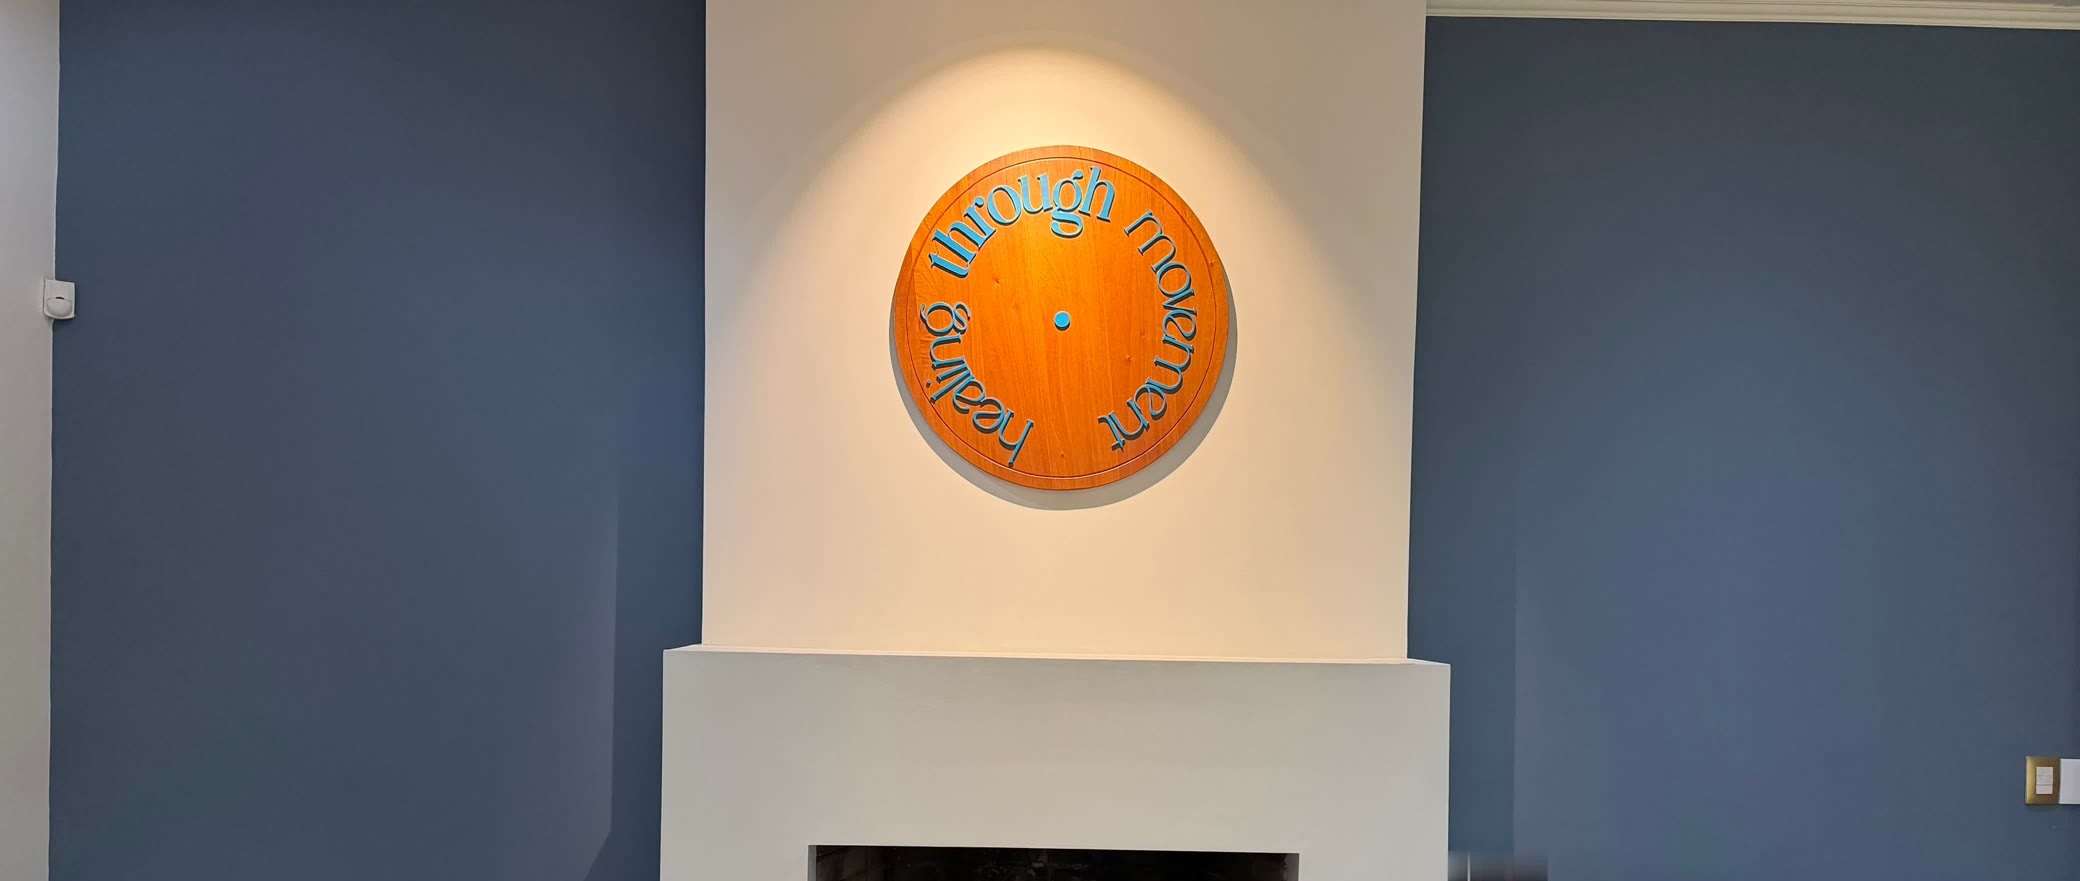
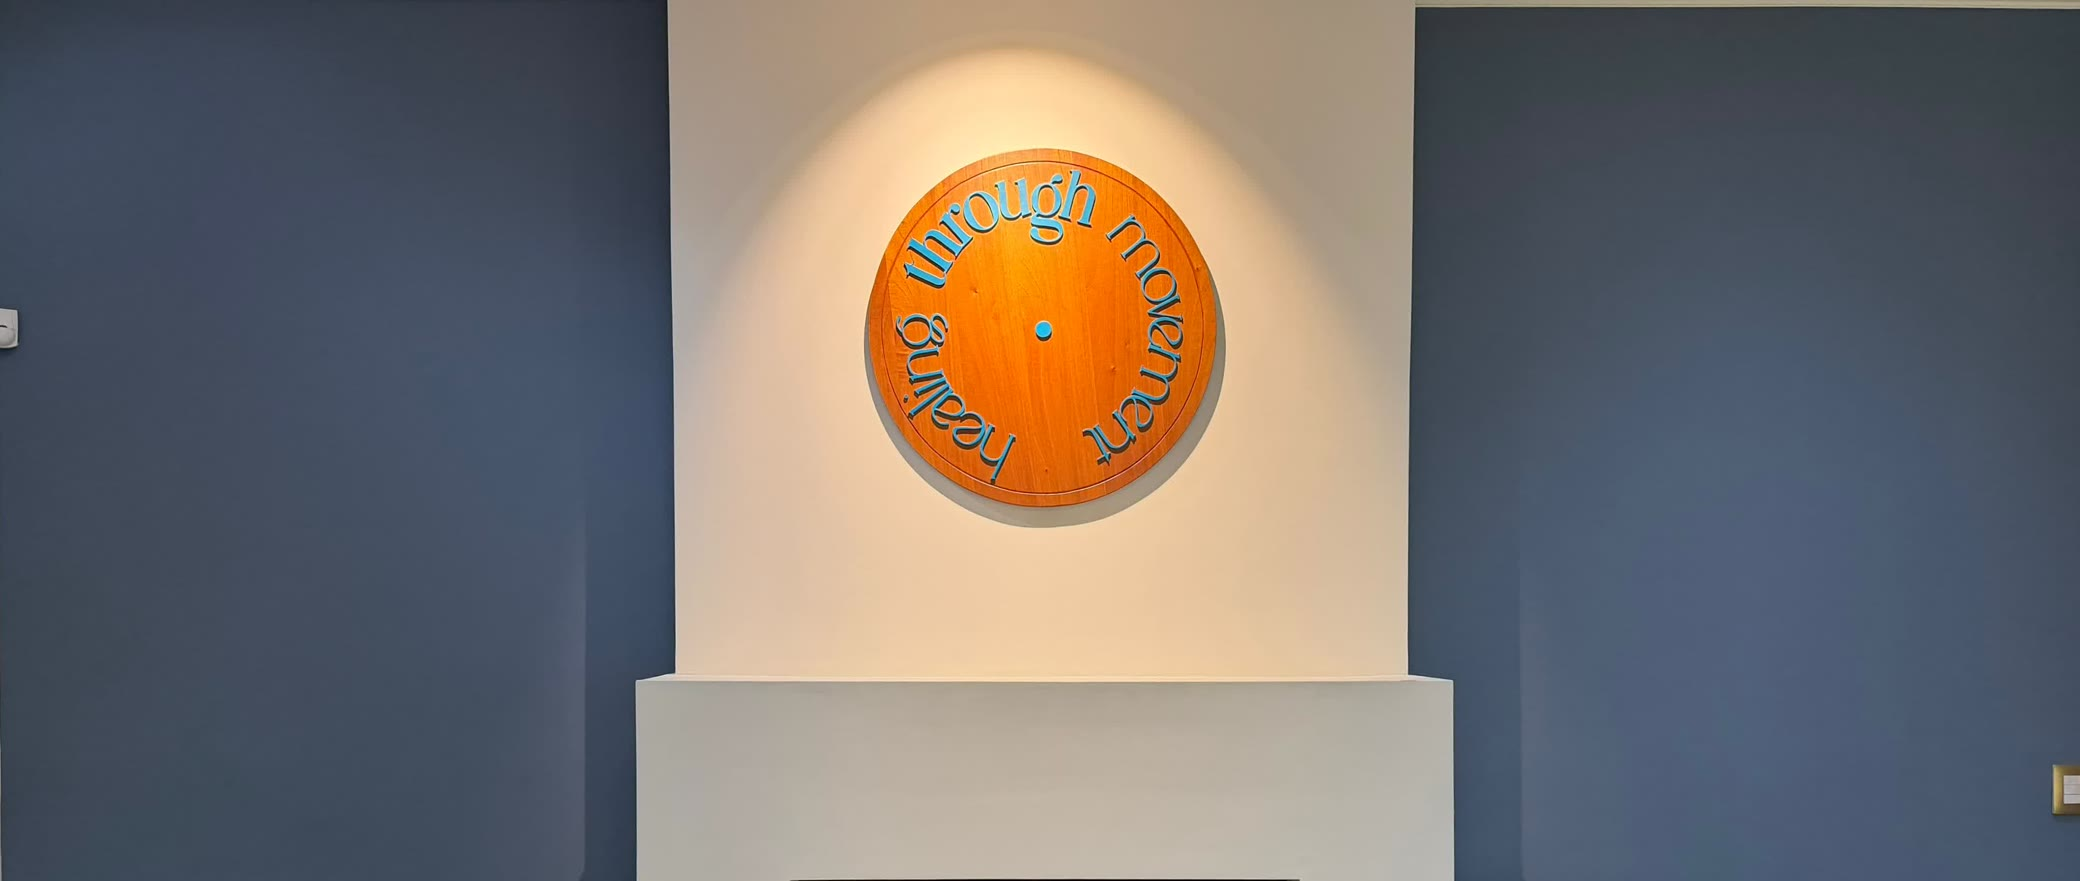
La chimenea queda derecha y centrada, y el video del método manda
Dos cosas que Ivan vio en la landing publicada.

La foto del sello se veía torcida. Se midió, no se estimó: buscando por
luminancia los dos bordes del pilar de la chimenea, su eje estaba a -1.06°
—y el pilar CONVERGE hacia abajo (359→352 px), así que era perspectiva de
cámara y no sólo giro—. Girada -1.05° el eje queda en 0.00°.

Y el borde izquierdo traía 133 px de la pared BLANCA contigua, que era lo
que rompía la simetría. El recorte nuevo arranca después de ella y se centra
en el eje del pilar: la chimenea queda al medio con desvío medido de 0 px.

El video del método se veía diminuto: 380 px en una pantalla de 1440, un
26 % del ancho, porque la sección vivía en `wrap` (760). Pasa a `wide`
—1240 a este ancho— y la rejilla de 1.1/0.9 a 1.15/1. Queda en 594×792:
56 % más grande.

⚠ Acá el límite lo pone el ALTO y no el ancho. El video es 3:4 vertical, o
sea que cada píxel de ancho cuesta 1.33 de alto: con 1.5/1 llegaba a 667×889,
más alto que la pantalla de una laptop. Recortarlo tampoco era salida — en el
cuadro la mujer ya ocupa de la cabeza a los pies. 1.15/1 entra en pantalla y
sigue mandando.

En el teléfono no cambia nada: ahí `wide` y `wrap` miden lo mismo, el video
sigue en 330×440 y el riel acostado.

diff --git a/thrive/index.html b/thrive/index.html
@@ -24,7 +24,7 @@
 <link rel="preconnect" href="https://fonts.gstatic.com" crossorigin>
 <link rel="preload" as="image" href="/assets/img/hero.jpg">
 <link rel="stylesheet" href="https://fonts.googleapis.com/css2?family=Outfit:wght@300..700&family=Bodoni+Moda:ital,opsz,wght@1,6..96,400..600&family=Fraunces:opsz,wght,SOFT,WONK@144,400,30,1&family=Hanken+Grotesk:wght@300..800&family=DM+Mono:wght@400;500&display=swap">
-<link rel="stylesheet" href="/assets/css/thrive.css?v=07e33f99">
+<link rel="stylesheet" href="/assets/css/thrive.css?v=bbeae1fd">
 </head>
 
 <body>
@@ -1442,7 +1442,12 @@ c12 -18 25 -25 47 -25 24 0 41 -11 78 -50 34 -37 54 -50 74 -50 22 0 45 -17
 
 <!-- ══════════ MÉTODO ══════════ -->
 <section data-ground="linen">
-  <div class="wrap">
+  <!-- `wide` y no `wrap`: la sección es la del VIDEO, y en un contenedor de
+       760 px el video quedaba en 380 — un 26 % de una pantalla de 1440, o sea
+       una miniatura al lado de mucho papel. Pedido de Ivan, 31 ago 2026:
+       que tenga protagonismo. En 1080 el video pasa a ~600.
+       El titular sigue centrado sobre esta caja, así que también se ensancha. -->
+  <div class="wide">
     <h2 class="h2 up">¿Cómo entrenamos?</h2>
 
     <div class="metodo-grid">
@@ -1506,7 +1511,15 @@ c12 -18 25 -25 47 -25 24 0 41 -11 78 -50 34 -37 54 -50 74 -50 22 0 45 -17
          sello al 35 % del alto, la repisa asomando abajo.
          Al reloj LED rojo del rincón se le pasó `delogo` y se recortaron las
          últimas filas: en escritorio la banda lo cortaba, pero en teléfono
-         entraba, y un LED rojo en un cuadro de azules jala el ojo. -->
+         entraba, y un LED rojo en un cuadro de azules jala el ojo.
+
+         31 ago, segunda pasada (Ivan: «se ve torcida»). Se midió el eje del
+         pilar de la chimenea buscando sus dos bordes por luminancia: estaba a
+         -1.06° y el pilar converge hacia abajo, o sea que era perspectiva y no
+         sólo giro. Girada -1.05° el eje queda en 0.00°.
+         Y el borde izquierdo traía 133 px de la pared BLANCA de al lado: el
+         recorte arranca después de ella y se centra en el eje del pilar, así
+         que la chimenea queda exactamente al medio (desvío medido: 0 px). -->
   <!-- Sin lema, por pedido de Denisse (29 ago 2026): quiere la foto del
        estudio limpia y pasar directo a «Tu experiencia THRIVE incluye».
 

diff --git a/_template-landing.html b/_template-landing.html
@@ -1442,7 +1442,12 @@ c12 -18 25 -25 47 -25 24 0 41 -11 78 -50 34 -37 54 -50 74 -50 22 0 45 -17
 
 <!-- ══════════ MÉTODO ══════════ -->
 <section data-ground="linen">
-  <div class="wrap">
+  <!-- `wide` y no `wrap`: la sección es la del VIDEO, y en un contenedor de
+       760 px el video quedaba en 380 — un 26 % de una pantalla de 1440, o sea
+       una miniatura al lado de mucho papel. Pedido de Ivan, 31 ago 2026:
+       que tenga protagonismo. En 1080 el video pasa a ~600.
+       El titular sigue centrado sobre esta caja, así que también se ensancha. -->
+  <div class="wide">
     <h2 class="h2 up">¿Cómo entrenamos?</h2>
 
     <div class="metodo-grid">
@@ -1506,7 +1511,15 @@ c12 -18 25 -25 47 -25 24 0 41 -11 78 -50 34 -37 54 -50 74 -50 22 0 45 -17
          sello al 35 % del alto, la repisa asomando abajo.
          Al reloj LED rojo del rincón se le pasó `delogo` y se recortaron las
          últimas filas: en escritorio la banda lo cortaba, pero en teléfono
-         entraba, y un LED rojo en un cuadro de azules jala el ojo. -->
+         entraba, y un LED rojo en un cuadro de azules jala el ojo.
+
+         31 ago, segunda pasada (Ivan: «se ve torcida»). Se midió el eje del
+         pilar de la chimenea buscando sus dos bordes por luminancia: estaba a
+         -1.06° y el pilar converge hacia abajo, o sea que era perspectiva y no
+         sólo giro. Girada -1.05° el eje queda en 0.00°.
+         Y el borde izquierdo traía 133 px de la pared BLANCA de al lado: el
+         recorte arranca después de ella y se centra en el eje del pilar, así
+         que la chimenea queda exactamente al medio (desvío medido: 0 px). -->
   <!-- Sin lema, por pedido de Denisse (29 ago 2026): quiere la foto del
        estudio limpia y pasar directo a «Tu experiencia THRIVE incluye».
 

diff --git a/assets/css/thrive.css b/assets/css/thrive.css
@@ -1660,7 +1660,17 @@ textarea.field{min-height:130px;}
      que a este cuerpo son unos 37 caracteres por renglón: angosto pero
      legible. Bajar más de ahí ya rompe la lectura de tres párrafos. */
   .metodo-grid{
-    display:grid; grid-template-columns:minmax(0,1.1fr) minmax(0,0.9fr);
+    display:grid;
+    /* 1.15 / 1 y no 1.1 / 0.9. El video es el contenido de esta sección y
+       tenía que pesar más que su pie de texto: en `wrap` medía 380 px, un
+       26 % de una pantalla de 1440. (Ivan, 31 ago 2026: «se ve muy pequeño».)
+
+       ⚠ El límite lo pone el ALTO, no el ancho. El video es 3:4 vertical,
+       así que cada píxel de ancho cuesta 1.33 de alto: con 1.5/1 llegaba a
+       667×889, más alto que la pantalla de una laptop. Y recortarlo no era
+       salida — en el cuadro la mujer ya ocupa de la cabeza a los pies.
+       1.15/1 lo deja en ~594×792: entra en pantalla y sigue mandando. */
+    grid-template-columns:minmax(0,1.15fr) minmax(0,1fr);
     column-gap:clamp(32px,3.4vw,56px);
     /* Era `start`, y el texto —tres o cuatro líneas— quedaba pegado
        arriba contra una foto vertical que mide el triple. El resultado

diff --git a/demo-hero/index.html b/demo-hero/index.html
@@ -9,7 +9,7 @@
 <link rel="preconnect" href="https://fonts.googleapis.com">
 <link rel="preconnect" href="https://fonts.gstatic.com" crossorigin>
 <link rel="stylesheet" href="https://fonts.googleapis.com/css2?family=Outfit:wght@300..700&family=Bodoni+Moda:ital,opsz,wght@1,6..96,400..600&family=Fraunces:opsz,wght,SOFT,WONK@144,400,30,1&family=Hanken+Grotesk:wght@300..800&family=DM+Mono:wght@400;500&display=swap">
-<link rel="stylesheet" href="/assets/css/thrive.css?v=07e33f99">
+<link rel="stylesheet" href="/assets/css/thrive.css?v=bbeae1fd">
 
 <style>
   /* ═══════════════════════════════════════════════════════════

diff --git a/thrive/form/index.html b/thrive/form/index.html
@@ -31,7 +31,7 @@
 <link rel="preconnect" href="https://fonts.googleapis.com">
 <link rel="preconnect" href="https://fonts.gstatic.com" crossorigin>
 <link rel="stylesheet" href="https://fonts.googleapis.com/css2?family=Outfit:wght@300..700&family=Bodoni+Moda:ital,opsz,wght@1,6..96,400..600&family=Fraunces:opsz,wght,SOFT,WONK@144,400,30,1&family=Hanken+Grotesk:wght@300..800&family=DM+Mono:wght@400;500&display=swap">
-<link rel="stylesheet" href="/assets/css/thrive.css?v=07e33f99">
+<link rel="stylesheet" href="/assets/css/thrive.css?v=bbeae1fd">
 </head>
 
 <body>

diff --git a/thrive/invitacion/index.html b/thrive/invitacion/index.html
@@ -22,7 +22,7 @@
 <link rel="preconnect" href="https://fonts.googleapis.com">
 <link rel="preconnect" href="https://fonts.gstatic.com" crossorigin>
 <link rel="stylesheet" href="https://fonts.googleapis.com/css2?family=Outfit:wght@300..700&family=Bodoni+Moda:ital,opsz,wght@1,6..96,400..600&family=Fraunces:opsz,wght,SOFT,WONK@144,400,30,1&family=Hanken+Grotesk:wght@300..800&family=DM+Mono:wght@400;500&display=swap">
-<link rel="stylesheet" href="/assets/css/thrive.css?v=07e33f99">
+<link rel="stylesheet" href="/assets/css/thrive.css?v=bbeae1fd">
 </head>
 
 <body>

diff --git a/panel/index.html b/panel/index.html
@@ -9,7 +9,7 @@
 <link rel="preconnect" href="https://fonts.googleapis.com">
 <link rel="preconnect" href="https://fonts.gstatic.com" crossorigin>
 <link rel="stylesheet" href="https://fonts.googleapis.com/css2?family=Outfit:wght@300..700&family=Hanken+Grotesk:wght@300..800&family=DM+Mono:wght@400;500&display=swap">
-<link rel="stylesheet" href="/assets/css/thrive.css?v=07e33f99">
+<link rel="stylesheet" href="/assets/css/thrive.css?v=bbeae1fd">
 <style>
 /* ═══ el panel es una herramienta, no una página de venta ═══ */
 

diff --git a/thrive/schedule/index.html b/thrive/schedule/index.html
@@ -21,7 +21,7 @@
 <link rel="preconnect" href="https://fonts.googleapis.com">
 <link rel="preconnect" href="https://fonts.gstatic.com" crossorigin>
 <link rel="stylesheet" href="https://fonts.googleapis.com/css2?family=Outfit:wght@300..700&family=Bodoni+Moda:ital,opsz,wght@1,6..96,400..600&family=Hanken+Grotesk:wght@300..800&family=DM+Mono:wght@400;500&display=swap">
-<link rel="stylesheet" href="/assets/css/thrive.css?v=07e33f99">
+<link rel="stylesheet" href="/assets/css/thrive.css?v=bbeae1fd">
 </head>
 
 <body class="pag-pase">
